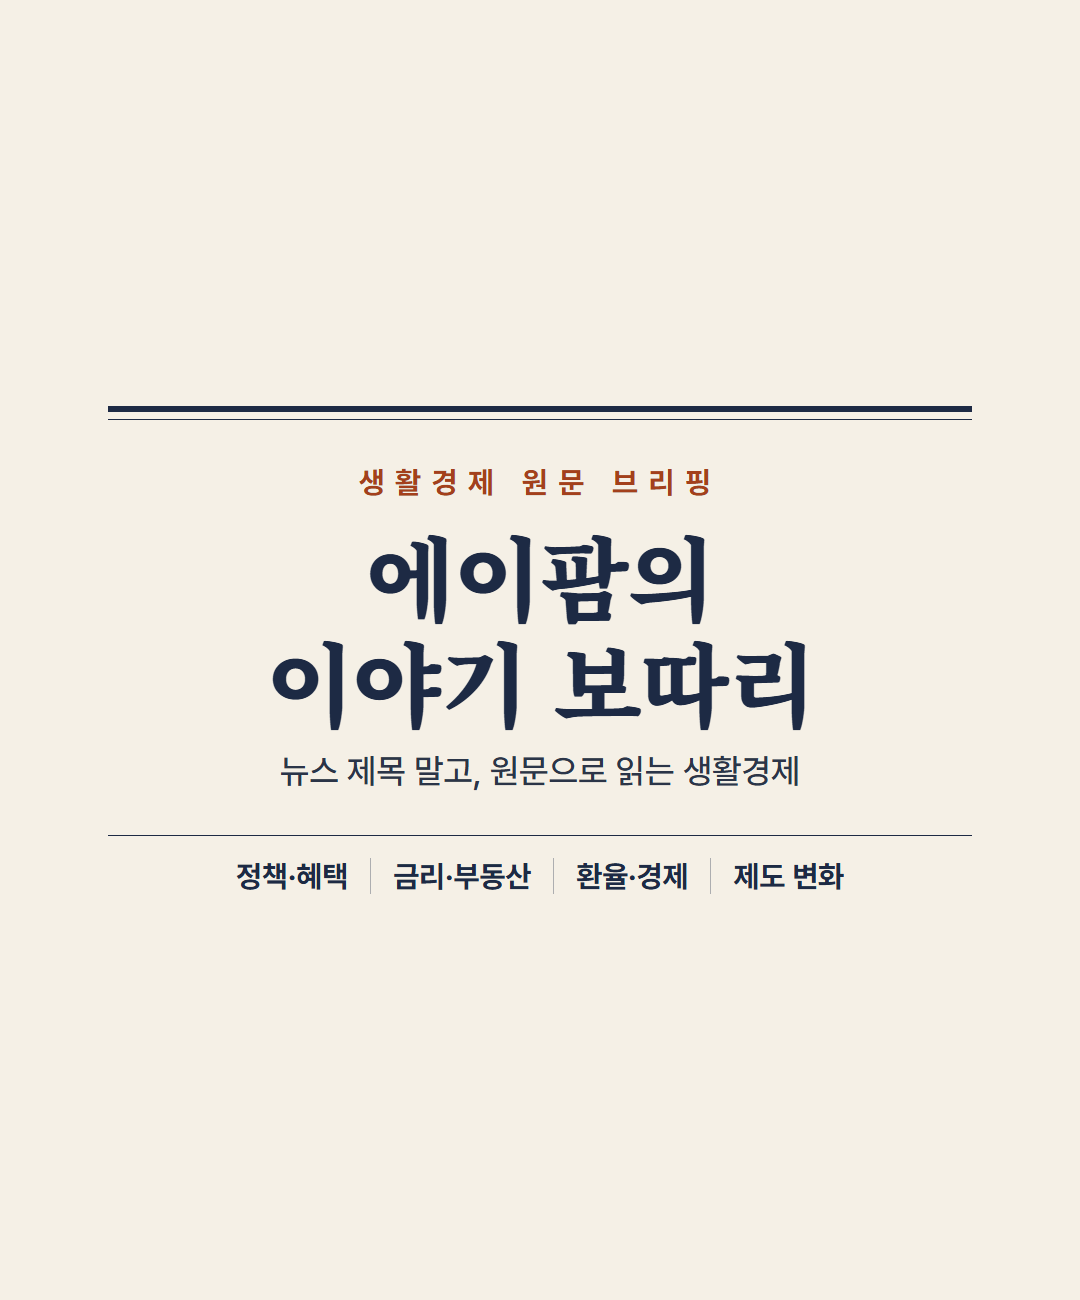
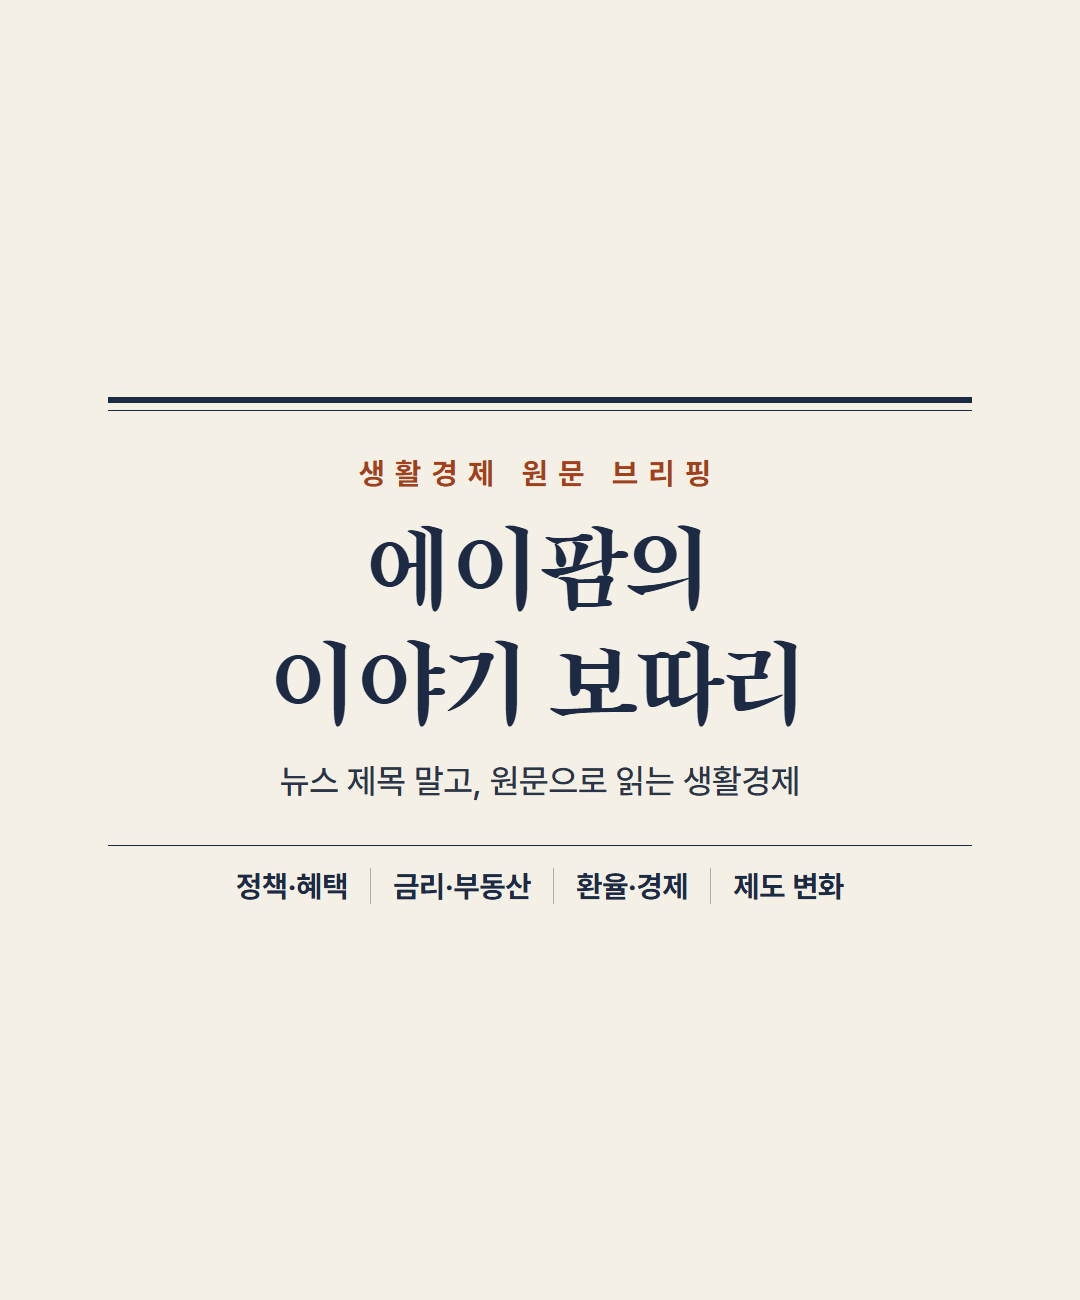
에디토리얼 배너 제목 폰트를 송명으로 교체·재적용

diff --git a/data/blog-branding.md b/data/blog-branding.md
@@ -5,7 +5,7 @@
 - 각 시안: PC 타이틀 966x300 / 모바일 앱 커버 1080x1300
 - v1(마스코트) 시안: assets/branding/ (blog-title-966x300, blog-mobile-cover-1080x1300)
 - 프로필 사진: 사용자가 현재 쓰는 것 유지 (생성본 삭제 2026-10-21)
-팔레트: 네이비 #1d2a44 · 오렌지 #e8a33d · 레드 #c9562b(작은 글씨는 #a3401c) · 베이지 #f5f0e6. 글꼴: Pretendard + Noto Serif KR.
+팔레트: 네이비 #1d2a44 · 오렌지 #e8a33d · 레드 #c9562b(작은 글씨는 #a3401c) · 베이지 #f5f0e6. 글꼴: 제목 Song Myung(송명, 신문 헤드라인 명조) + 본문 Pretendard. (Noto Serif KR 은 배너 크기에서 밋밋해 교체 2026-10-21)
 
 ## 소개글
 뉴스 제목 말고 정부 보도자료·공고문 원문을 끝까지 읽고 정리합니다.
